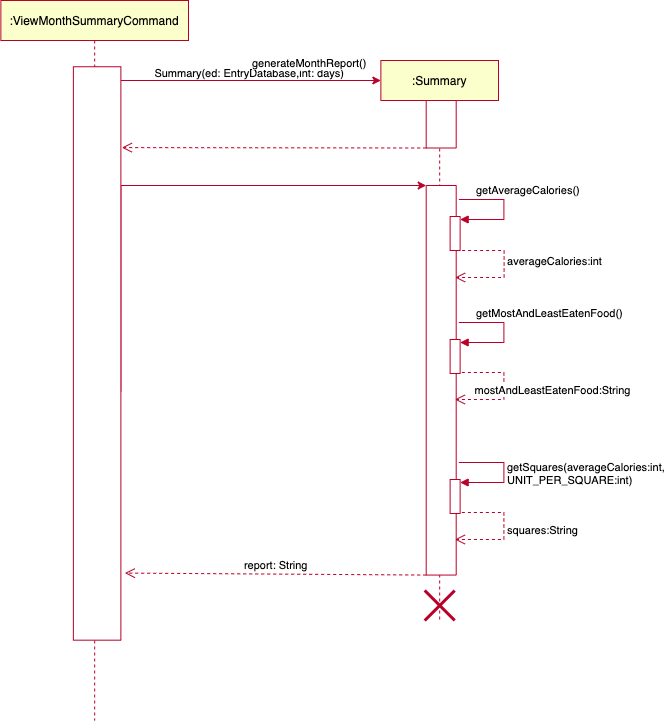
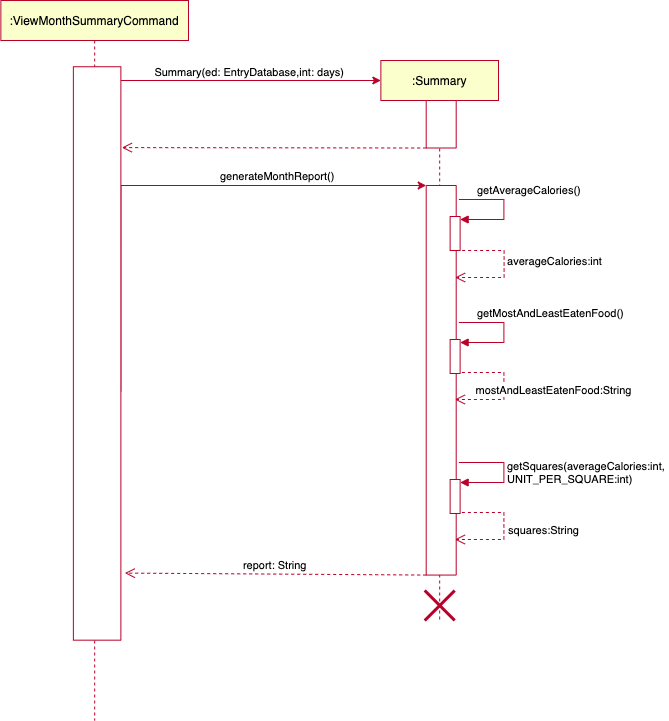
update DG and PPP

diff --git a/docs/team/siyuancheng178.md b/docs/team/siyuancheng178.md
@@ -7,19 +7,68 @@ functionalities taylor made for them.
 
 ## Summary of Contributions
 
+During the development this software, I am responsible for implement the following features:
+- Adding custom food entry
+- setting user gender 
+- Showing weekly food intake summary
+- Showing monthly food intake summary
+- exit the program
+
 Given below are my contributions to the project:
 
 - Code contribution: [This is the RepoSense report of the code contributed.](https://nus-cs2113-ay2122s1.github.io/tp-dashboard/?search=&sort=groupTitle&sortWithin=title&timeframe=commit&mergegroup=&groupSelect=groupByRepos&breakdown=true&checkedFileTypes=docs~functional-code~test-code~other&since=2021-09-25&tabOpen=true&tabType=authorship&tabAuthor=siyuancheng178&tabRepo=AY2122S1-CS2113T-W12-1%2Ftp%5Bmaster%5D&authorshipIsMergeGroup=false&authorshipFileTypes=docs~functional-code~test-code&authorshipIsBinaryFileTypeChecked=false)
 
-- **New Feature**: view weekly/monthly entry summary
 
-What it does: allow users to view a concise summary of what he/she has eaten in the past week/month. 
-Weekly summary includes components of calorie trend graph, average daily calorie and most/least eaten foods in this month.
-Monthly summary includes components of average daily calorie and most/least eaten foods in the past 7 days.
+## Enhancement implementation
 
-- **Documentation**
-  - User Guide: Add descriptions and sample outputs for several commands
-  
-  - Developer Guide: Add the overall architecture of this software and implementation details of `summary` feature.
+### Adding custom food entry
+
+- What it does: Allows the user to add and track their food intake which is not provided inside our default database
+- Justification: This is one of FitNUS's core features. It is important to keep track of user daily food intake espeacially
+if the user is having his/her custom food.
+
+### Setting user gender
+
+- What it does: Allows the user to change the gender if he/she sets it wrongly before.
+- Justification: This is one of FitNUS's core features. It allows the user to modify in the event the user gives a wrong input previously.
+
+### Remove food from daily intake
+
+- What it does: Allows the user to delete a specified food entry.
+- Justification: This is one of FitNUS's core features. As a diet tracker, it should allow the user to
+  delete any food entry in the event they make any mistakes.
+- Highlights: This enhancement required a good understanding of how entries are being logged in. The challenge when
+  implementing this feature is to ensure that the specified entry exists, and throws the proper exception otherwise.
 
 
+### View weekly entry summary
+
+- What it does: allow users to view a concise summary of what he/she has eaten over the past seven days, including 
+components of calorie trend graph, average daily calorie and most/least eaten foods.
+- Highlights: This enhancement required a good understanding of how entries are being logged in. The challenge comes in
+  differentiating how many entries to include in the summary. This required the use of
+  `EntryDatabase#getPastDaysEntryDatabase(int)` which returns the past seven days' entries. It also needs to take into account that new users may have very few records, so FitNus 
+  need to adjust the summary accordingly.
+
+
+
+### view monthly entry summary
+
+- What it does: allow users to view a concise summary of what he/she has eaten in the current month, including components 
+of average daily calorie and most/least eaten foods.
+- Highlights: This enhancement required a good understanding of how entries are being logged in. The challenge comes in
+differentiating how many entries to include in the summary. This required the use of
+`EntryDatabase#getPastMonthEntryDatabase()` which returns past month entries. It also needs to take into account 
+that new users may have very few records, so FitNus need to adjust the summary accordingly.
+
+
+### Contributions to the UG:
+- Add documentation for to view weekly summary
+- Add documentation for to view monthly summary
+
+
+### Contributions to the DG:
+- Add the overall architecture diagram and explain the functionality for each component.
+- Add the class diagram for `tracker` package.
+- Add sequence diagram for `ViewWeekSummaryCommand` and `ViewMonthSummaryCommand`
+- Add Instructions for manual testing for delete food, find food and list food.

diff --git a/docs/DeveloperGuide.md b/docs/DeveloperGuide.md
@@ -286,33 +286,33 @@ User class and its various components.
 
 The Summary class provides an overview of user's diet over the past week/month.
 
-#### command format
-
-`summary /week` or `summary /month`  
-`Summary` class provides two methods `generateWeekSummaryReport()` and `generateMonthSummaryReport()` to give the user weekly/monthly report of their diets.
-
-*   `generateWeekSummaryReport()` shows weekly calorie intake trend graph, average daily calorie intake, and the most/least frequently eaten food over past 7 days.
-*   `generateMonthSummaryReport()` shows average daily calorie intake, and the most/least frequently eaten food over this month.
-
-#### UML Sequence Diagram
+#### Weekly summary report
 
 The following sequence diagram describes the operation of the `generateWeekSummary()`.  
-![](diagrams-DG/weekly%20report.png)  
+![](diagrams-DG/weekly%20report.png)
+
+Here are the general steps taken to generate a weekly report:
+
+- Create a `Summary` object with the entry database containing the records of past week and the number of days having records. 
+Generally, the number of days is seven, but for a new user having records less than 7 days, the total number of days he/she has used.
+- `ViewWeekSummaryCommand` calls `generateWeekReport()` method inside the Summary object.
+During the execution, it will self invoke the `getAverageCalories()` to calculate the average calorie intake during the past days, 
+`getMostAndLeastEatenFood()` to get the most and least eaten foods and corresponding times,
+and `getSquare()` method to draw a pictorial graph to illustrate the calorie intake trend.
+- At the end of execution, it will return the report as a String back.
+
+#### Monthly summary report
+
 The following sequence diagram describes the operation of `generateMonthSummary()`.  
 ![](diagrams-DG/monthly%20report.png)
 
----
+Here are the general steps taken to generate a weekly report:
 
-### Command
-
-![command class diagram](diagrams-DG/command%20class%20diagram.drawio.png)
-
-The `Command` class is an abstract class that all other specific command classes (eg AddFoodEntryCommand, DeleteEntryCommand) inherit from. 
-
-The `Command` component
-    
-- Contains an abstract method `execute`. In the specific command classes that inherit from `Command`, `execute` performs the function that the command describes. (For example, in `AddFoodEntryCommand`, `execute` adds an entry to the EntryDatabase.) 
-
+- Create a `Summary` object with the entry database containing the records over this month and the number of days having records.
+- `ViewMonthSummaryCommand` calls `generateMonthReport()` method inside the Summary object.
+  During the execution, it will self invoke the `getAverageCalories()` to calculate the average calorie intake during the past days,
+  `getMostAndLeastEatenFood()` to get the most and least eaten foods and corresponding times.
+- At the end of execution, it will return the report as a String back.
 
 ---
 
